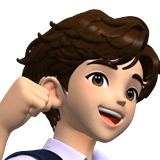
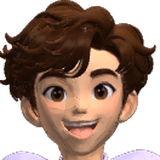
Moving characters from the rigged Meshy models (build 20261105d)
Animated WebP (transparent) rendered from the teacher's A-pose rigged
models: boy (103,478 triangles) and girl (33,902), clips Wave_One_Hand
and Cheer_with_Both_Hands, 280-430 KB each, loaded only for the chosen
character. Home banner: the chosen character waves (label "Me").
Profile: new model stills, the selected card waves. Win and practice
screens: the character cheers. Reduced-motion devices get still pictures.
Walk/run (skirt splits) and the chair-sit clip are not used.

Claude-Session: https://claude.ai/code/session_016Rurhbx3ccs27ajiWtaZxh

diff --git a/index.html b/index.html
@@ -582,6 +582,10 @@ html body{background:var(--sx-paper)!important;background-image:none!important}
 .pfpick img{height:190px;width:auto;max-width:100%;object-fit:contain}.pfpick b{font-size:1rem;margin-top:4px}.pfpick small{color:#55607A}
 .pfpick .pfon{visibility:hidden;font-size:.78rem;font-weight:700;color:#2F5BFF}.pfpick button[aria-pressed="true"] .pfon{visibility:visible}
 .twav{height:150px;width:auto;display:block;margin:0 auto -6px}
+.sxme.fig small{display:inline;font-size:.72rem;margin-left:4px}
+.sxme.fig{min-height:0;background:none;box-shadow:none;padding:0;right:6px;bottom:2px;flex-direction:column;gap:0;align-items:center}
+.sxme.fig img{width:auto;height:94px;border-radius:0;background:none;filter:drop-shadow(0 3px 4px rgba(0,0,0,.35))}
+.sxme.fig>span{margin-top:-8px;font-size:.8rem;background:rgba(255,255,255,.95);border-radius:999px;padding:1px 9px;box-shadow:0 1px 4px rgba(0,0,0,.25);text-align:center;position:relative}
 @media (prefers-color-scheme:dark){:root:not([data-theme="light"]) .pfpick button{background:#1E2A44;border-color:#2B3B60;color:#E8ECF7}:root:not([data-theme="light"]) .pfpick button[aria-pressed="true"]{border-color:#8DB4FF;background:#24365C}:root:not([data-theme="light"]) .pfpick small{color:#B8C2D9}:root:not([data-theme="light"]) .pfpick .pfon{color:#8DB4FF}}
 :root[data-theme="dark"] .pfpick button{background:#1E2A44;border-color:#2B3B60;color:#E8ECF7}:root[data-theme="dark"] .pfpick button[aria-pressed="true"]{border-color:#8DB4FF;background:#24365C}:root[data-theme="dark"] .pfpick small{color:#B8C2D9}:root[data-theme="dark"] .pfpick .pfon{color:#8DB4FF}
 .sxhero:has(.sxban) .sxstats{margin-top:12px}
@@ -912,7 +916,7 @@ function vcKey(text,slow){const s=(slow?'s|':'n|')+String(text).replace(/\s+/g,'
   for(let i=0;i<s.length;i++){const c=s.charCodeAt(i);h1=Math.imul(h1^c,2654435761);h2=Math.imul(h2^c,1597334677)}
   h1=Math.imul(h1^(h1>>>16),2246822507)^Math.imul(h2^(h2>>>13),3266489909);h2=Math.imul(h2^(h2>>>16),2246822507)^Math.imul(h1^(h1>>>13),3266489909);
   return(4294967296*(2097151&h2)+(h1>>>0)).toString(16)}
-const BUILD='20261105c';/* bump when voice files change: it forces browsers to fetch the new files together */
+const BUILD='20261105d';/* bump when voice files change: it forces browsers to fetch the new files together */
 try{fetch('voice/index.json?v='+BUILD).then(r=>r.ok?r.json():null).then(j=>{if(j&&j.clips&&j.bundles)VC.idx=j}).catch(e=>{VC.err='index: '+e})}catch(e){}
 /* One shared <audio> element (works with the iPhone silent switch). It is "unlocked" by the first tap. */
 function vcEl(){try{if(!VC.el){VC.el=new Audio();VC.el.preload='auto';VC.el.setAttribute('playsinline','')}
@@ -4285,14 +4289,18 @@ function missionsSheet(){const m=canteenMission(),sc=SCENES.find(x=>x.id==='cant
 const AVKEY='sanor-town-avatar-v1',AVS={boy:['Boy','นักเรียนชาย'],girl:['Girl','นักเรียนหญิง']};
 const avGet=()=>{try{const v=localStorage.getItem(AVKEY);return AVS[v]?v:''}catch(e){return ''}};
 const avSet=v=>{try{localStorage.setItem(AVKEY,v)}catch(e){}};
+/* moving pictures from the teacher's rigged Meshy models (5 Nov): wave on the home banner and in Profile, cheer on the win screen;
+   a still picture when the device asks for reduced motion */
+const avStill=()=>{try{return matchMedia('(prefers-reduced-motion: reduce)').matches}catch(e){return false}};
+const avPic=(k,clip)=>'img/avatar/'+k+(avStill()||!clip?'.png':'-'+clip+'.webp');
 function profileSheet(){
  mrSheet('Profile',(x)=>{const btns=[];
-  const pick=v=>{avSet(v);btns.forEach(b=>b.setAttribute('aria-pressed',String(b.dataset.av===v)));if(DREW)render()};
+  const pick=v=>{avSet(v);btns.forEach(b=>{const on=b.dataset.av===v;b.setAttribute('aria-pressed',String(on));b.querySelector('img').src=avPic(b.dataset.av,on?'wave':'')});if(DREW)render()};
   const cur=avGet();
   return [el('div',{class:'row'},el('h2',{},'Profileโปรไฟล์'),x),
    el('h3',{},'Choose your characterเลือกตัวละครของคุณ'),
    el('ul',{class:'pfpick'},Object.keys(AVS).map(k=>{const b=el('button',{type:'button','data-av':k,'aria-pressed':String(cur===k),onclick:()=>pick(k)},
-     el('img',{src:'img/avatar/'+k+'.png',alt:'',width:'136',height:'384',decoding:'async'}),el('b',{},AVS[k][0]),el('small',{},AVS[k][1]),el('span',{class:'pfon'},'✓ Selected · เลือกแล้ว'));
+     el('img',{src:avPic(k,cur===k?'wave':''),alt:'',width:'136',height:'384',decoding:'async'}),el('b',{},AVS[k][0]),el('small',{},AVS[k][1]),el('span',{class:'pfon'},'✓ Selected · เลือกแล้ว'));
     btns.push(b);return el('li',{},b)})),
    el('p',{class:'mrnote'},'Your character shows on the home page and when you finish a place. It is saved on this device only.ตัวละครจะแสดงที่หน้าแรกและตอนทำสถานที่สำเร็จ บันทึกไว้ในเครื่องนี้เท่านั้น')]})}
 function rewardsSheet(){const r=rwRead(),xp=rwXP(r);
@@ -4509,12 +4517,12 @@ function playPlace(sc,onExit,bl){
   step()}
  const winBtns=()=>el('div',{class:'row'},el('button',{class:'btn',type:'button',onclick:close},'Back to mapกลับแผนที่'),
     el('button',{class:'btn ghost',type:'button',onclick:()=>{win.hidden=true}},'Stay hereอยู่ต่อ'));
- function pracDone(){win.hidden=false;win.replaceChildren(el('div',{class:'card stack tw'},avGet()?el('img',{class:'twav',src:'img/avatar/'+avGet()+'.png',alt:'',width:'53',height:'150'}):null,el('h2',{},'Great! You practised them all.เก่งมาก! ฝึกครบแล้ว'),
+ function pracDone(){win.hidden=false;win.replaceChildren(el('div',{class:'card stack tw'},avGet()?el('img',{class:'twav',src:avPic(avGet(),'cheer'),alt:'',width:'70',height:'150'}):null,el('h2',{},'Great! You practised them all.เก่งมาก! ฝึกครบแล้ว'),
    el('p',{class:'tbig'},'\u{1F44F}'),winBtns()))}
  function showWin(){win.hidden=false;const nm=miss.length;
   RLOG.add(RSES,sc,{source:'main_dialogue',event:'scene_complete',firstCorrect:stat.first,firstTotal:stat.total});
   const av=avGet();
-  win.replaceChildren(el('div',{class:'card stack tw'},av?el('img',{class:'twav',src:'img/avatar/'+av+'.png',alt:'',width:'53',height:'150'}):null,el('h2',{},'You finished '+sc.name+'!คุณทำ'+sc.th+'สำเร็จแล้ว!'),
+  win.replaceChildren(el('div',{class:'card stack tw'},av?el('img',{class:'twav',src:avPic(av,'cheer'),alt:'',width:'70',height:'150'}):null,el('h2',{},'You finished '+sc.name+'!คุณทำ'+sc.th+'สำเร็จแล้ว!'),
    el('p',{class:'tbig'},Array(reqN).fill('★').join(' ')),el('p',{},'You talked to '+reqN+' people in English. Great job!คุณคุยภาษาอังกฤษกับคน '+reqN+' คนแล้ว เก่งมาก!'),
    CH?el('p',{class:'tscore'},CH.msg.done[0]+'\u2063'+CH.msg.done[1]):null,
    stat.total?el('p',{class:'tscore'},nm?'Right on the first try: '+stat.first+' / '+stat.total+'ตอบถูกในครั้งแรก '+stat.first+' / '+stat.total+' ข้อ':'All right on the first try! \u{1F389}ตอบถูกทุกข้อในครั้งแรก!'):null,
@@ -4785,8 +4793,8 @@ function render(){
     el('h1',{class:'vh'},'Sanor Town'),
     el('span',{class:'tbadge sxproto'},'Prototype'),
     (()=>{const av=avGet();const ic=el('span',{class:'sxmei','aria-hidden':'true'});ic.innerHTML='<svg viewBox="0 0 24 24" fill="none" stroke="#2F5BFF" stroke-width="2" stroke-linecap="round">'+NAVI.profile+'</svg>';
-     return el('button',{class:'sxme',type:'button',onclick:profileSheet,'aria-label':av?'My character: '+AVS[av][0]+'. Change in Profile':'Choose your character in Profile'},
-      av?el('img',{src:'img/avatar/'+av+'-head.png',alt:'',width:'40',height:'40',decoding:'async'}):ic,
+     return el('button',{class:'sxme'+(av?' fig':''),type:'button',onclick:profileSheet,'aria-label':av?'My character: '+AVS[av][0]+'. Change in Profile':'Choose your character in Profile'},
+      av?el('img',{src:avPic(av,'wave'),alt:'',width:'48',height:'112',decoding:'async'}):ic,
       el('span',{},av?'Me':'Choose me',el('small',{},av?'ฉัน':'เลือกตัวละคร')))})(),
     HOST&&HOST.inline?null:el('button',{class:'sxback',type:'button',onclick:closeTown},'Homeกลับ'),
     /* the teacher's new banner (31 Oct) has no Passport button: Passport opens from the People bar and the bottom menu */),

diff --git a/CHANGELOG.md b/CHANGELOG.md
@@ -114,3 +114,4 @@
 | 2569-11-05 | dbf4879 | U | งานที่ครูอนุมัติ 5 พ.ย. 07:13 ข้อ 9 และ 12: (1) เล่นแบบออฟไลน์ได้: ไฟล์ใหม่ sw.js (service worker) เก็บหน้าแอป ไอคอน และภาพ/เสียงของสถานีที่เคยเปิดแล้ว ตัวหน้าแอปดึงใหม่ทุกครั้งที่มีเน็ต (build ใหม่ขึ้นเหมือนเดิม) ตัวนับยอดเข้าชมไม่ถูกเก็บ ทดสอบ: เปิดออนไลน์ 1 ครั้ง แล้วตัดเน็ต หน้าแรกและห้องพักครูยังเปิดได้ (2) tools/town_e2e.py ข้อ E1: ฉากที่ยังไม่มีเสียง AI (เกินครึ่งของบรรทัดไม่มีไฟล์) นับเป็น "ใช้เสียงมือถือ" แทนการ FAIL และรายงานจำนวน: 593 บรรทัดใน 25 ฉาก ส่วนข้อ 4 ตรวจช่องว่างภาษาไทยของ lostfound และ pmstudio เทียบระยะห่างตัวอักษรใน PDF ทุกข้อความ (63 + 62 ข้อความ) ไม่พบช่องว่างเกินที่ต้องแก้ build 20261105a |
 | 2569-11-05 | 1452f43 | U | PM Studio ปรับโฉมตามภาพ 6 ภาพของครู (5 พ.ย. 08:37): สีแดง ดำเทา แผ่นซับเสียง โต๊ะไม้โอ๊ค พื้นหินขัดเทา แบ่ง 4 โซน: ห้องถ่ายรูป (ฉากกระดาษขาว ม้วนเขียว/เทา ไฟซอฟต์บ็อกซ์ 2 ดวง เก้าอี้สตูล กล้องบนขาตั้ง) ห้องอัดเสียง (ผนังกระจกบนฐานทึบ แผ่นซับเสียงแดง/เทา ไมค์มีที่กันลม ขาตั้งโน้ต พรม โต๊ะเสียง ป้าย RECORDING และ PM STUDIO · VOICE • MUSIC • PODCAST) โต๊ะตัดต่อริมผนังซ้าย (จอบนแขนจับ เก้าอี้ หูฟัง เครื่องพิมพ์ แถบ EDIT • SELECT • CREATE) ห้องประชุม (โต๊ะยาว เก้าอี้แดง/ดำ แล็ปท็อป จอ CREATE • COLLABORATE • INSPIRE กระดาน PLAN · SHOOT · EDIT ชั้นหนังสือ) และโต๊ะครูข้างประตูพร้อมโซฟา · ทางเดินอาคาร 3: หน้าห้อง PM Studio กรอบประตูแดง บานกระจกเปิด ป้ายดำ PM STUDIO บอร์ด STUDENT SHOWCASE และ STUDIO NEWS ม้านั่งวางรองเท้าสีแดง กระถางต้นไม้ (ไม่ใส่เลขห้อง) · บทสนทนา 12 ตาเดิมทุกตัวอักษร ย้ายจุดยืน Bam (กล้อง), Tida (โต๊ะประชุม), Hansa (หน้าห้องอัดเสียง) ให้ตรงโซน build 20261105b |
 | 2569-11-05 | 07cba2d | U | หน้า Profile (งานคงเหลือข้อ 6 + แผน 3D ข้อ 1 ที่ครูสั่ง 5 พ.ย. 09:21): ปุ่ม Profile ในเมนูล่างเปิดหน้า "Choose your character · เลือกตัวละครของคุณ" เลือก Boy · นักเรียนชาย หรือ Girl · นักเรียนหญิง (ภาพ 2D จากโมเดล Meshy ของครู img/avatar/boy.png, girl.png และภาพหน้า -head.png) บันทึกในเครื่องนี้เท่านั้น (คีย์ sanor-town-avatar-v1 ไม่ส่งข้อมูลออก) · หน้าแรก: ปุ่มบนแบนเนอร์ "Choose me · เลือกตัวละคร" หรือรูปหน้าตัวที่เลือก "Me · ฉัน" กดแล้วเปิด Profile · หน้าจอทำสถานที่สำเร็จและหน้าฝึกประโยคครบ แสดงตัวละครที่เลือก build 20261105c |
+| 2569-11-05 | (รอ) | U | ตัวละครขยับได้ (แผน 3D ข้อ 2, ไฟล์ Meshy ท่า A-Pose ที่ Rig แล้วของครู 5 พ.ย.): ภาพเคลื่อนไหว WebP พื้นโปร่งใส ทำจากโมเดลใหม่ เด็กชาย (103,478 เหลี่ยม) และเด็กหญิง (33,902 เหลี่ยม) ท่าโบกมือ (Wave_One_Hand) และดีใจ (Cheer_with_Both_Hands) ไฟล์ละ 280–430 KB โหลดเฉพาะตัวที่เลือก · หน้าแรก: ตัวละครที่เลือกยืนโบกมือที่มุมขวาของแบนเนอร์ ป้าย "Me ฉัน" · Profile: การ์ดที่เลือกโบกมือ ภาพนิ่งเปลี่ยนเป็นโมเดลใหม่ · หน้าจอทำสำเร็จ/ฝึกครบ: ตัวละครชูสองมือดีใจ · เครื่องที่ตั้งลดการเคลื่อนไหว (reduced motion) เห็นภาพนิ่งแทน · ไม่ใช้ท่าเดิน/วิ่ง (กระโปรงแยกตามขา) และท่านั่งเก้าอี้ build 20261105d |
